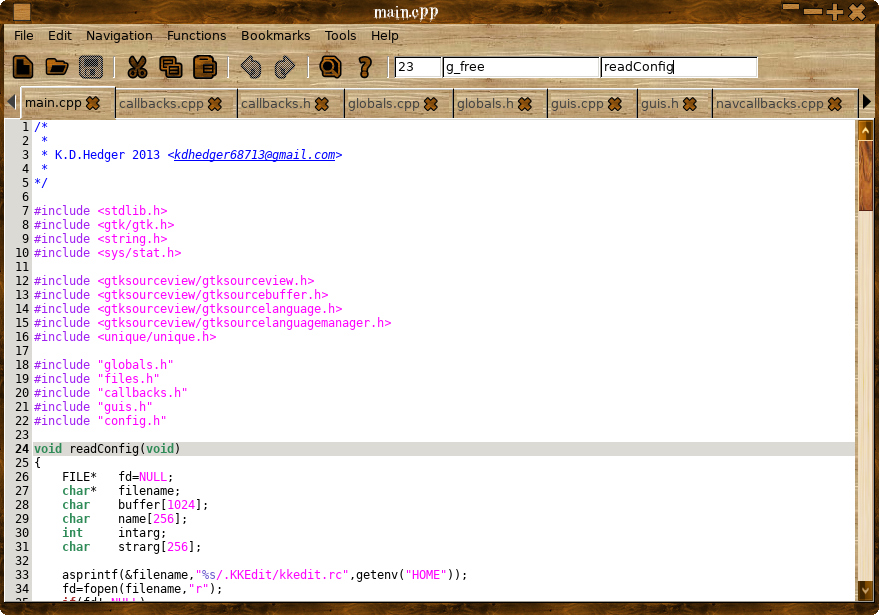
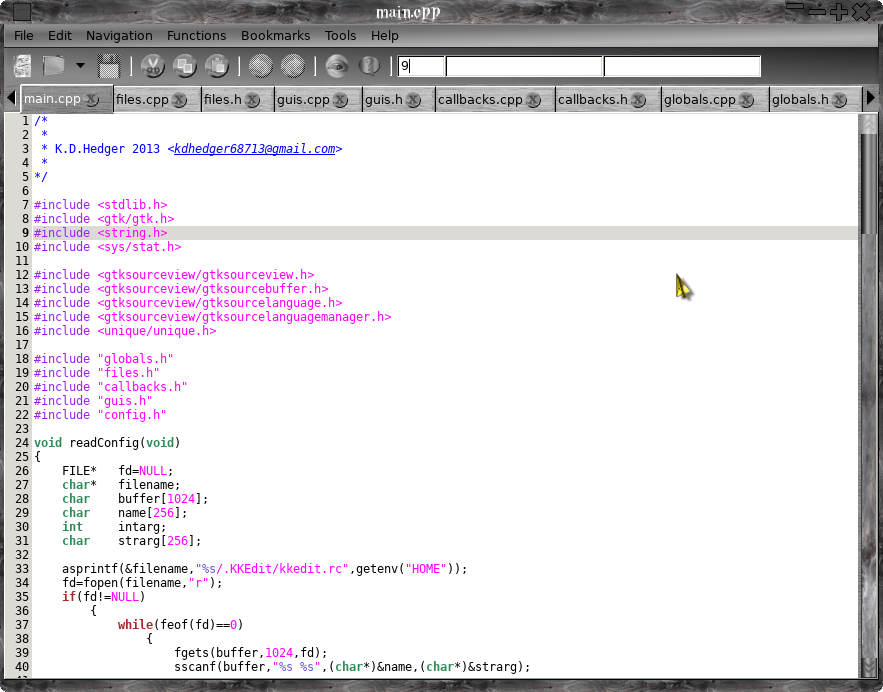
git-svn-id: file:///media/LinuxData/Development/SVN/KKEdit@317 923dfa19-3233-4c9e-86b8-84ae44b222e5

diff --git a/KKEdit/resources/help/help.html b/KKEdit/resources/help/help.html
@@ -12,7 +12,7 @@
       <font size="+3">Source code text editor</font><br>
       <br>
       <hr size="2" width="100%"><img alt="main" src="main.png"
-        height="615" width="879"><br>
+        height="692" width="883"><br>
       <hr size="2" width="100%">
       <div align="center"><b><font size="+1">Why another text editor?</font></b><br>
         <br>
